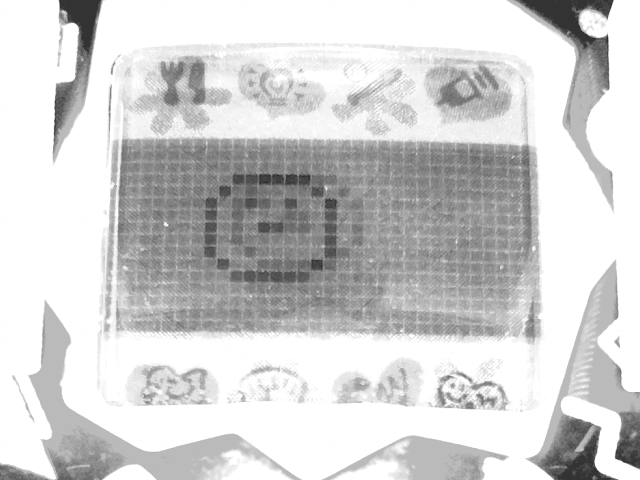
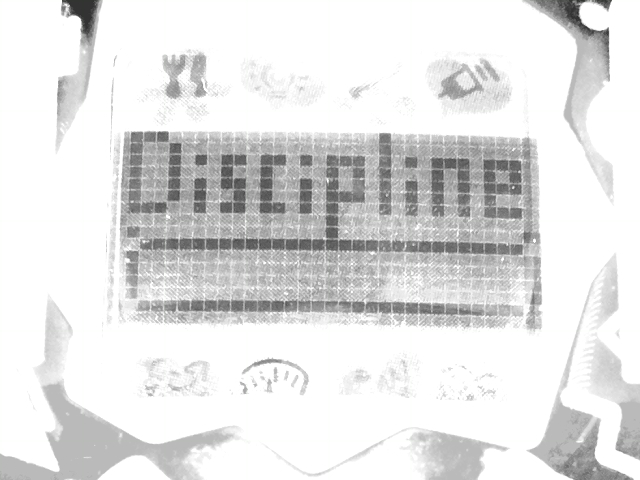
Automatically checking stats and feeding and disciplining works!!

diff --git a/vision.py b/vision.py
@@ -15,8 +15,7 @@ import os
 
 class TamaVision(object):
     def __init__(self):
-        
-        dirName = 'sprites/*.png'
+        self.thresOffset = 0.02
         self.positiveThreshold = 0.5 # value above this means we've found the pattern
 
     # 12.6x scale value found through calibration, first step measure pixels, then trial and error test for best match
@@ -39,9 +38,16 @@ class TamaVision(object):
 
             # threshold image using yen algorithm, this is best (determined through try_all_threshold function from skimage)
             thresh = threshold_yen(image)
-            image = image > thresh
+            image = image > (thresh+self.thresOffset)
 
-        pattern = ski.io.imread('spritesRescaled/' + patternFileName, as_gray=True)                                                                                                         
+        rescaleLive = False
+        if rescaleLive:
+            pattern = ski.io.imread('sprites/' + patternFileName, as_gray=True) 
+            scaleFactor = 12.6
+            print('ScaleFactor: ' + str(scaleFactor))
+            pattern = rescale(pattern, scaleFactor, anti_aliasing = True, order=0)      
+        else:
+            pattern = ski.io.imread('spritesRescaled/' + patternFileName, as_gray=True)                                                                                              
 
         result = match_template(image, pattern)
 
@@ -80,16 +86,29 @@ class TamaVision(object):
 
         now = datetime.now()
         date_time = now.strftime("%Y-%m-%d %H:%M:%S")
-        plt.savefig('visionLog/' + date_time + patternFileName)     
-        if likeliness > self.positiveThreshold:
-            plt.pause(10)
+        plt.savefig('visionLog/' + date_time + patternFileName)
+        
+        if patternFileName != 'needs_discipline.png':
+            if likeliness > self.positiveThreshold:
+                plt.pause(10)
+            plt.close()
+            #fig.clf()   
             
-        plt.close()
-        return (likeliness > self.positiveThreshold)
+            return (likeliness > self.positiveThreshold)
+        else:
+            if likeliness > 0.85:
+                plt.pause(10)
+            plt.close()
+            #fig.clf()
+            return (likeliness > 0.85)
+            
+        
+        
 
 def testTamaVision():    
+    os.environ.__setitem__('DISPLAY', ':0.0') 
     tamaVision = TamaVision()
-    tamaVision.findPattern('frame.jpg', 'angel.png')
+    tamaVision.findPattern('frame.jpg', 'child.png')
 
 
 '''

diff --git a/controller.py b/controller.py
@@ -96,11 +96,7 @@ class TamaController(object):
     if self.tamaVision.findPattern(frameFileName, 'sleep.png'):
       self.careState.to_sleep()
       return   
-    
-    if self.tamaVision.findPattern(frameFileName, 'needs_discipline.png'):
-      self.careState.to_undisciplined()
-      return
-    
+
     self.updateTamaStatFrames()
     if self.tamaVision.findPattern('hunger.jpg', 'heart_empty.png'):
       self.careState.to_hungry()
@@ -108,6 +104,11 @@ class TamaController(object):
   
     if self.tamaVision.findPattern('happiness.jpg', 'heart_empty.png'):
       self.careState.to_unhappy()
+      return
+
+    # only check discipline after all other care request have been handled
+    if self.tamaVision.findPattern(frameFileName, 'needs_discipline.png'):
+      self.careState.to_undisciplined()
       return
     
     print('Tamagotchi seems to not need care right now.')
@@ -205,6 +206,8 @@ class TamaController(object):
       self.tamaButtons.pressL()
       self.tamaButtons.pressM()
       self.tamaButtons.pressM()
+      self.tamaButtons.pressR()
+      
 
     if self.careState.state == 'unhappy':
       print('Playing with the Tamagotchi.')

diff --git a/servo_buttons.py b/servo_buttons.py
@@ -10,9 +10,9 @@ class ButtonController:
 
   def __press(self, button):
     self.kit.servo[button.channel].angle = button.activateAngle
-    sleep(0.5)
+    sleep(0.7)
     self.kit.servo[button.channel].angle = button.retractAngle
-    sleep(0.5)
+    sleep(0.7)
 
   def pressL(self):
     self.__press(self.buttonL)
@@ -34,10 +34,10 @@ class ButtonController:
   def pressLandR(self):
     self.kit.servo[self.buttonL.channel].angle = self.buttonL.activateAngle
     self.kit.servo[self.buttonR.channel].angle = self.buttonR.activateAngle
-    sleep(0.5)
+    sleep(0.8)
     self.kit.servo[self.buttonL.channel].angle = self.buttonL.retractAngle
     self.kit.servo[self.buttonR.channel].angle = self.buttonR.retractAngle
-    sleep(0.5)
+    sleep(0.7)
 
 
 class TamaButton:

diff --git a/camera.py b/camera.py
@@ -20,8 +20,8 @@ class TamaCam():
     def setup(self):
         self.camera.zoom = (0.36, 0.16, 0.3, 0.3)
         self.camera.resolution = 'vga'
-        self.camera.framerate = 1
-        self.camera.shutter_speed = 100000
+        self.camera.framerate = 2
+        self.camera.shutter_speed = 212339
         self.camera.saturation = -100
         self.camera.brightness = 80
         self.camera.contrast = 100
